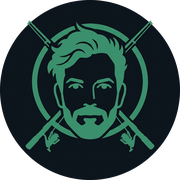
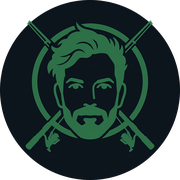
Deploy index.html 20260708_221402

Changed region(s): [[0.1389, 0.1111, 0.8611, 0.8333], [0.8056, 0.1111, 0.8611, 0.1389], [0.1389, 0.1111, 0.1944, 0.1389]]

diff --git a/index.html b/index.html
@@ -109,7 +109,7 @@ header{background:var(--surface);border-bottom:1px solid var(--border);
        padding:8px 12px;display:flex;flex-direction:column;gap:6px;z-index:1000;flex-shrink:0}
 .header-top{display:flex;align-items:center;gap:8px}
 .logo{font-family:var(--mono);font-size:.9rem;font-weight:700;color:var(--accent);white-space:nowrap;flex-shrink:0;display:flex;align-items:center;gap:5px}
-.logo img{height:20px;width:auto;flex-shrink:0}
+.logo img{height:1.6rem;width:auto;flex-shrink:0}
 /* Font size toggle */
 .font-toggle{display:flex;align-items:center;gap:2px;margin-left:4px;flex-shrink:0}
 .font-btn{background:none;border:1px solid var(--border);border-radius:5px;color:var(--d);
@@ -138,7 +138,7 @@ header{background:var(--surface);border-bottom:1px solid var(--border);
 @media(max-width:480px){
   header{padding:8px 7px}
   .logo{font-size:.78rem;gap:3px}
-  .logo img{height:16px}
+  .logo img{height:1.15rem}
   .header-top{gap:4px}
   .icon-btn{padding:4px 5px;font-size:.9rem}
   .header-right{gap:3px}
@@ -1175,7 +1175,7 @@ body.outdoor #fangbuchPanel .f-input,body.outdoor #fangbuchPanel .f-area{backgro
 <script src="https://unpkg.com/leaflet.markercluster@1.5.3/dist/leaflet.markercluster.js"></script>
 <script>
 // APP_VERSION (SemVer) — VOR jedem deploy_fredangelt.ps1-Lauf manuell erhöhen (siehe CLAUDE.md Versionierungs-Gesetz)
-const APP_VERSION = "4.46.0";
+const APP_VERSION = "4.46.2";
 // Einzige Quelle der Wahrheit fürs Versions-Badge im Header — kein zweiter, separat zu pflegender String mehr.
 document.getElementById('version-badge').textContent = 'v' + APP_VERSION;
 
